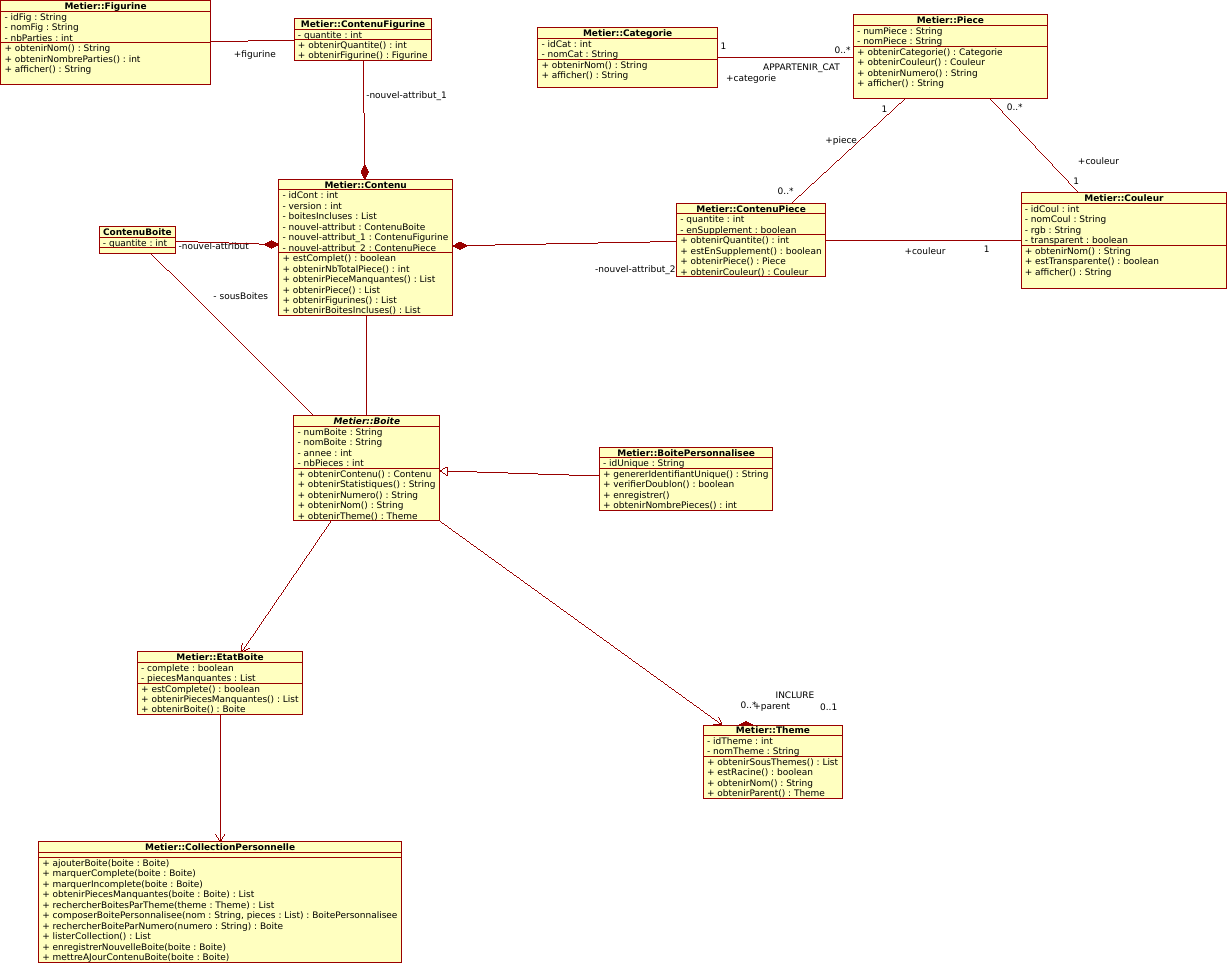
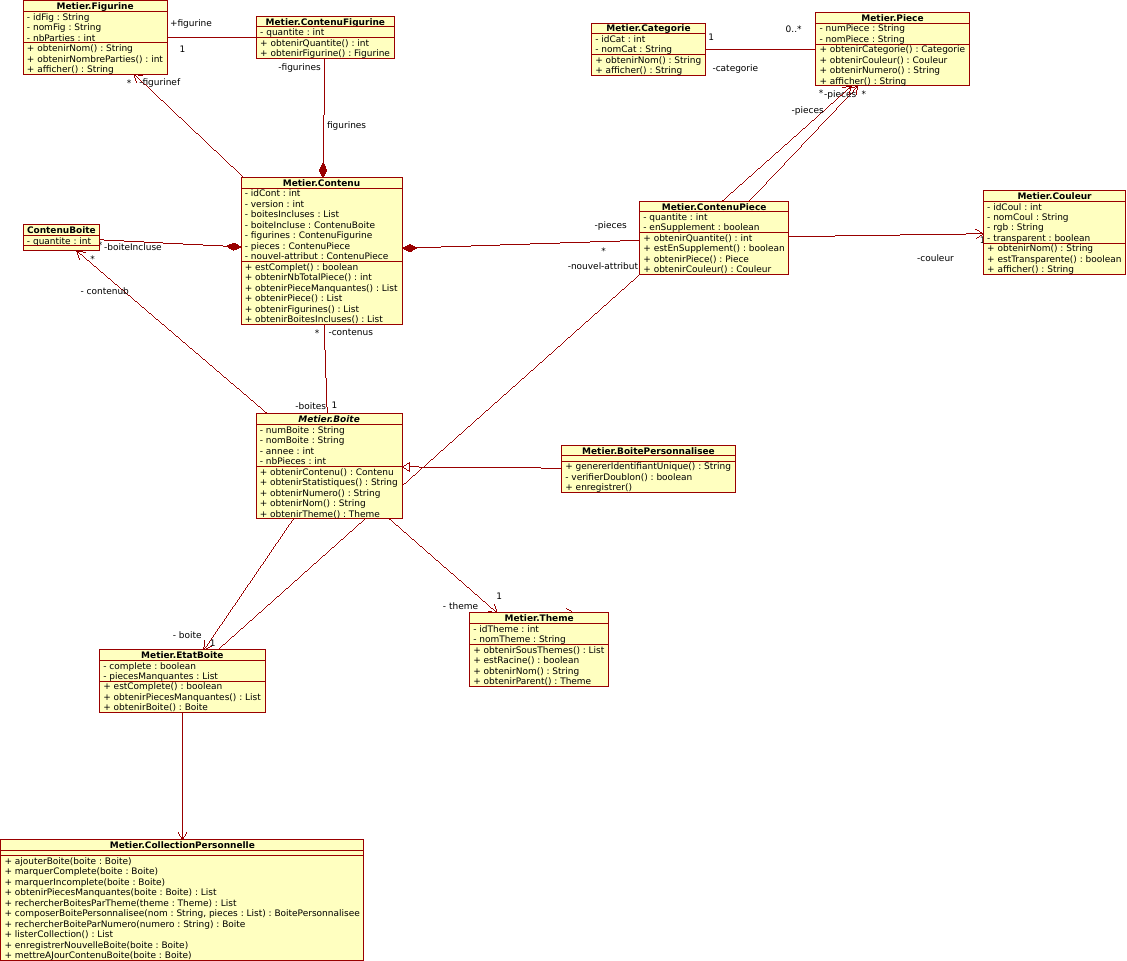
Fin du développements de la classe Piece, commencement des tests

diff --git a/sae/src/main/java/Piece.java b/sae/src/main/java/Piece.java
@@ -5,7 +5,7 @@ public class Piece {
     private String numPiece;
     private String nomPiece;
     private Categorie categorie;
-    private Couleur couleur;
+
 
     public Piece() {
     }
@@ -38,19 +38,8 @@ public class Piece {
         couleur = newVar;
     }
 
-    public Couleur getCouleur() {
-        return couleur;
-    }
-
-    public Categorie obtenirCategorie() {
-    }
-
-    public Couleur obtenirCouleur() {
-    }
-
-    public String obtenirNumero() {
-    }
 
     public String afficher() {
+        return "Pièce n°" + numPiece + " : " + nomPiece;
     }
 }
